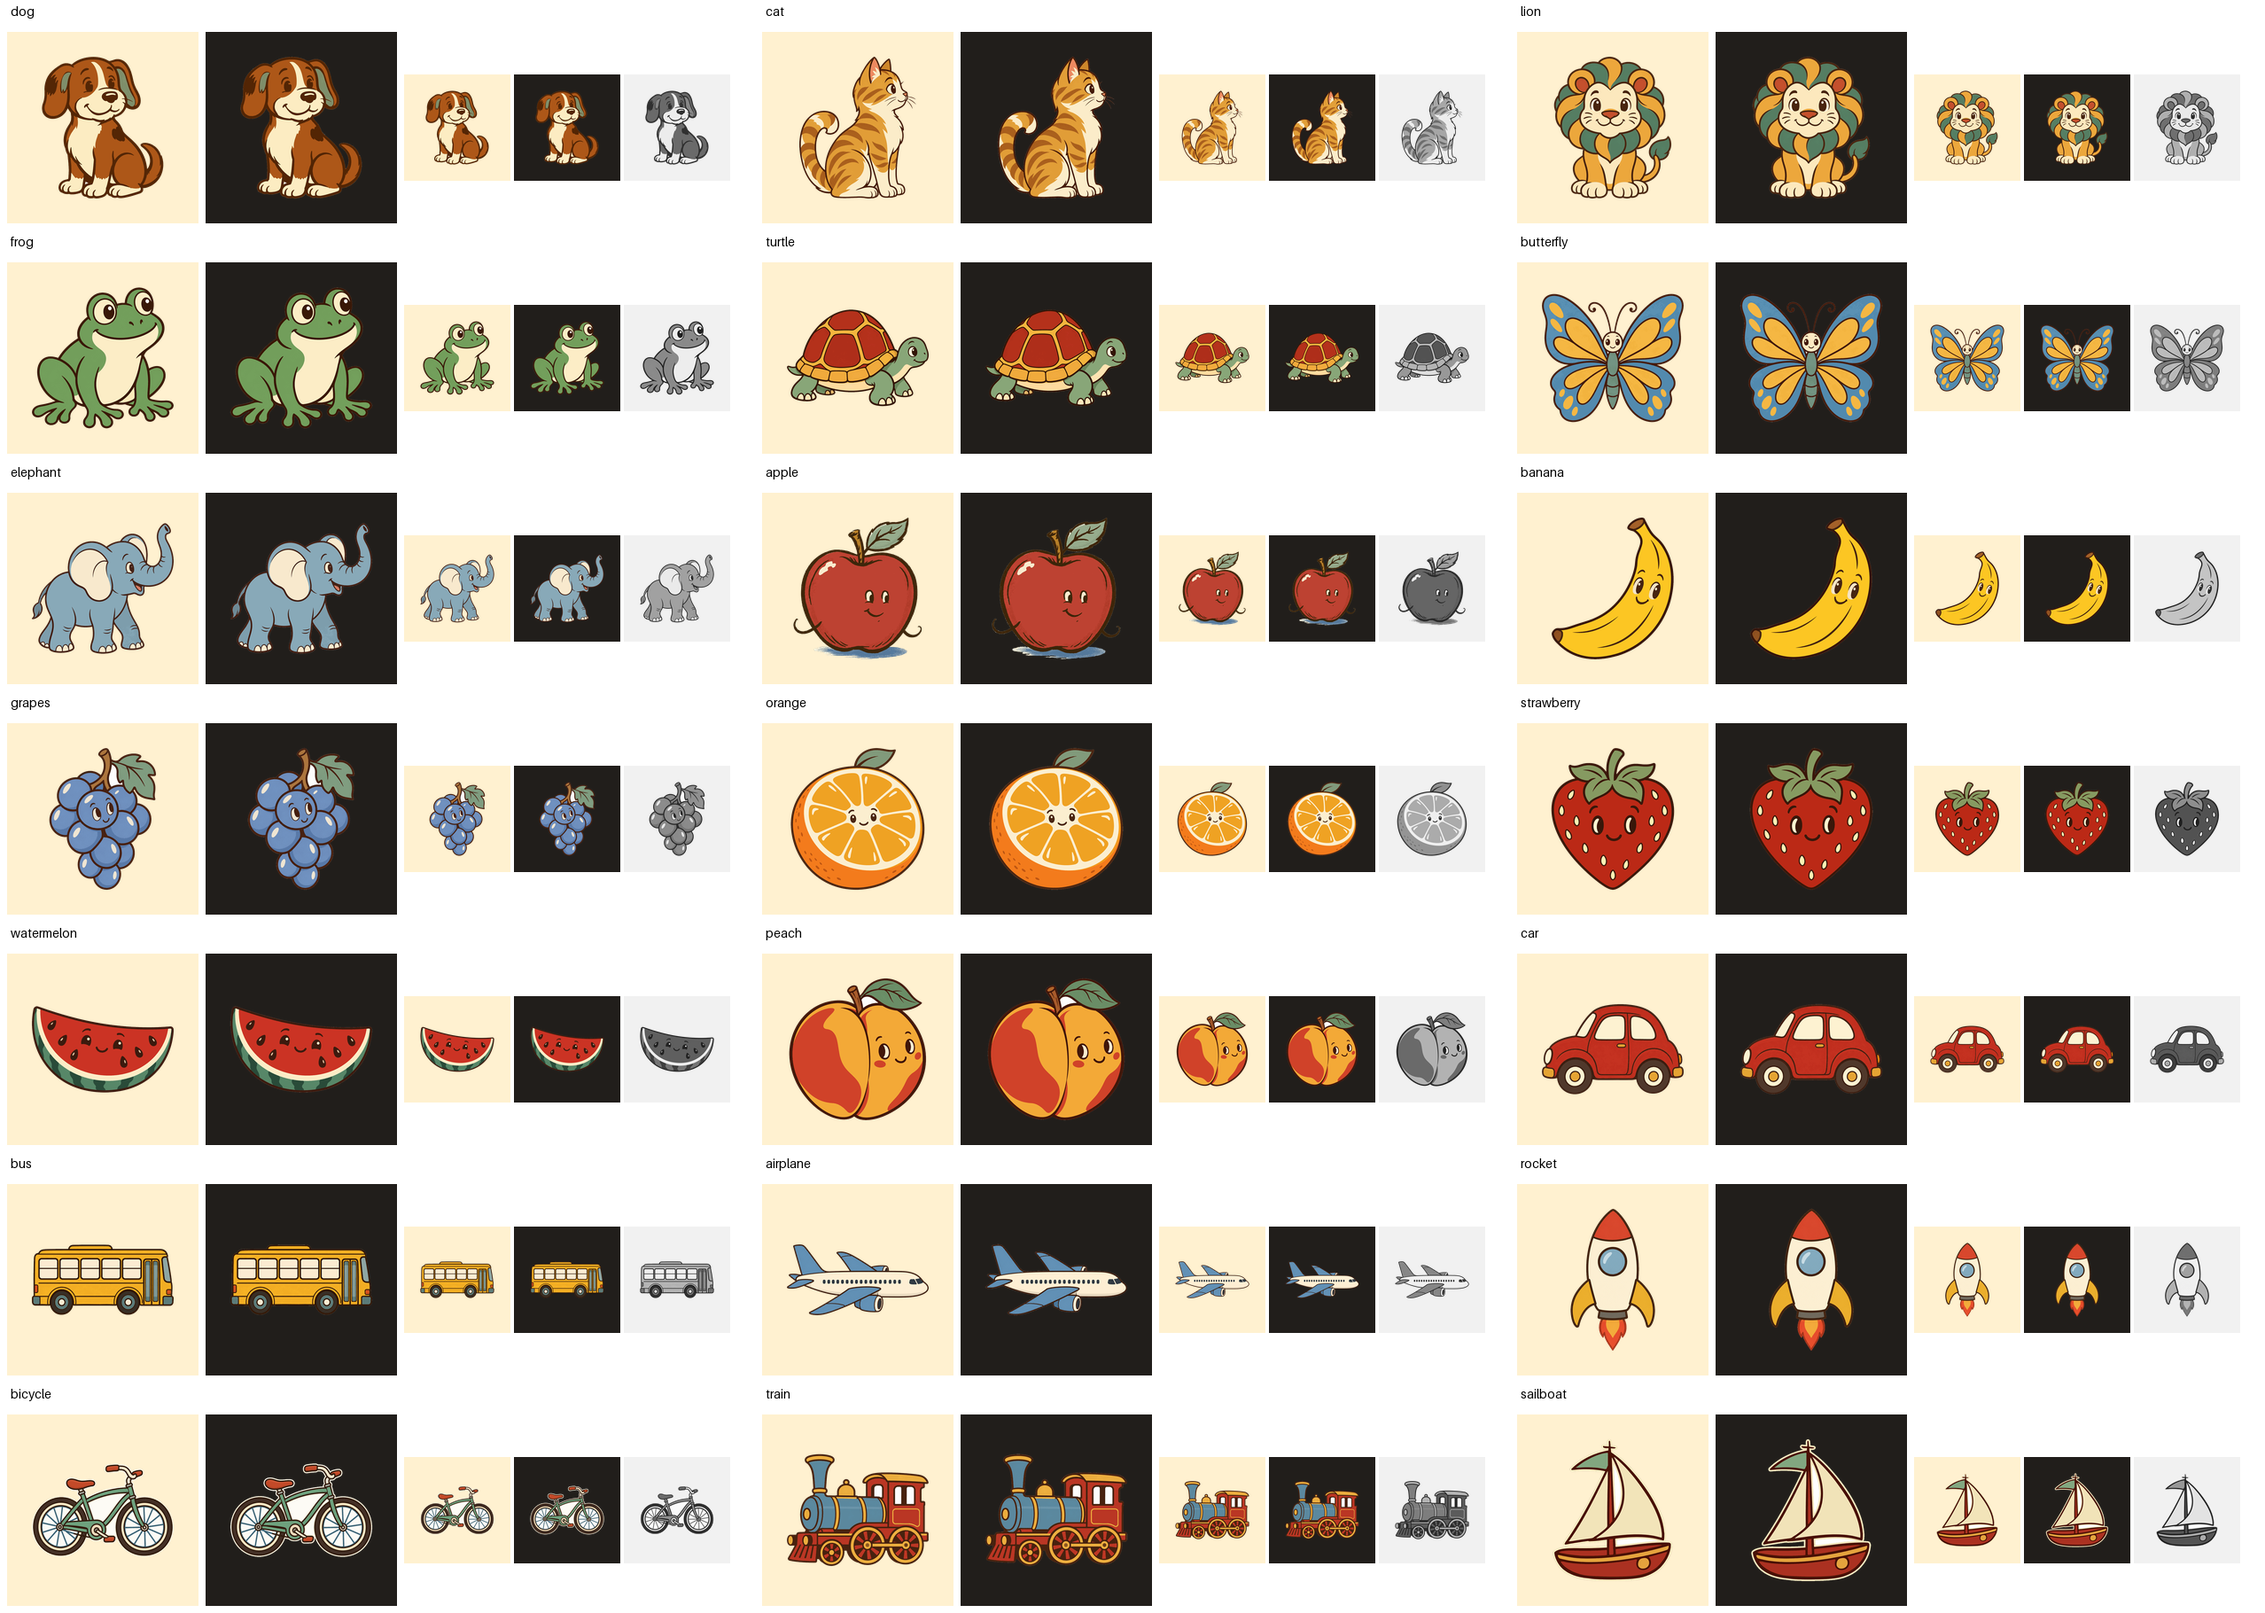
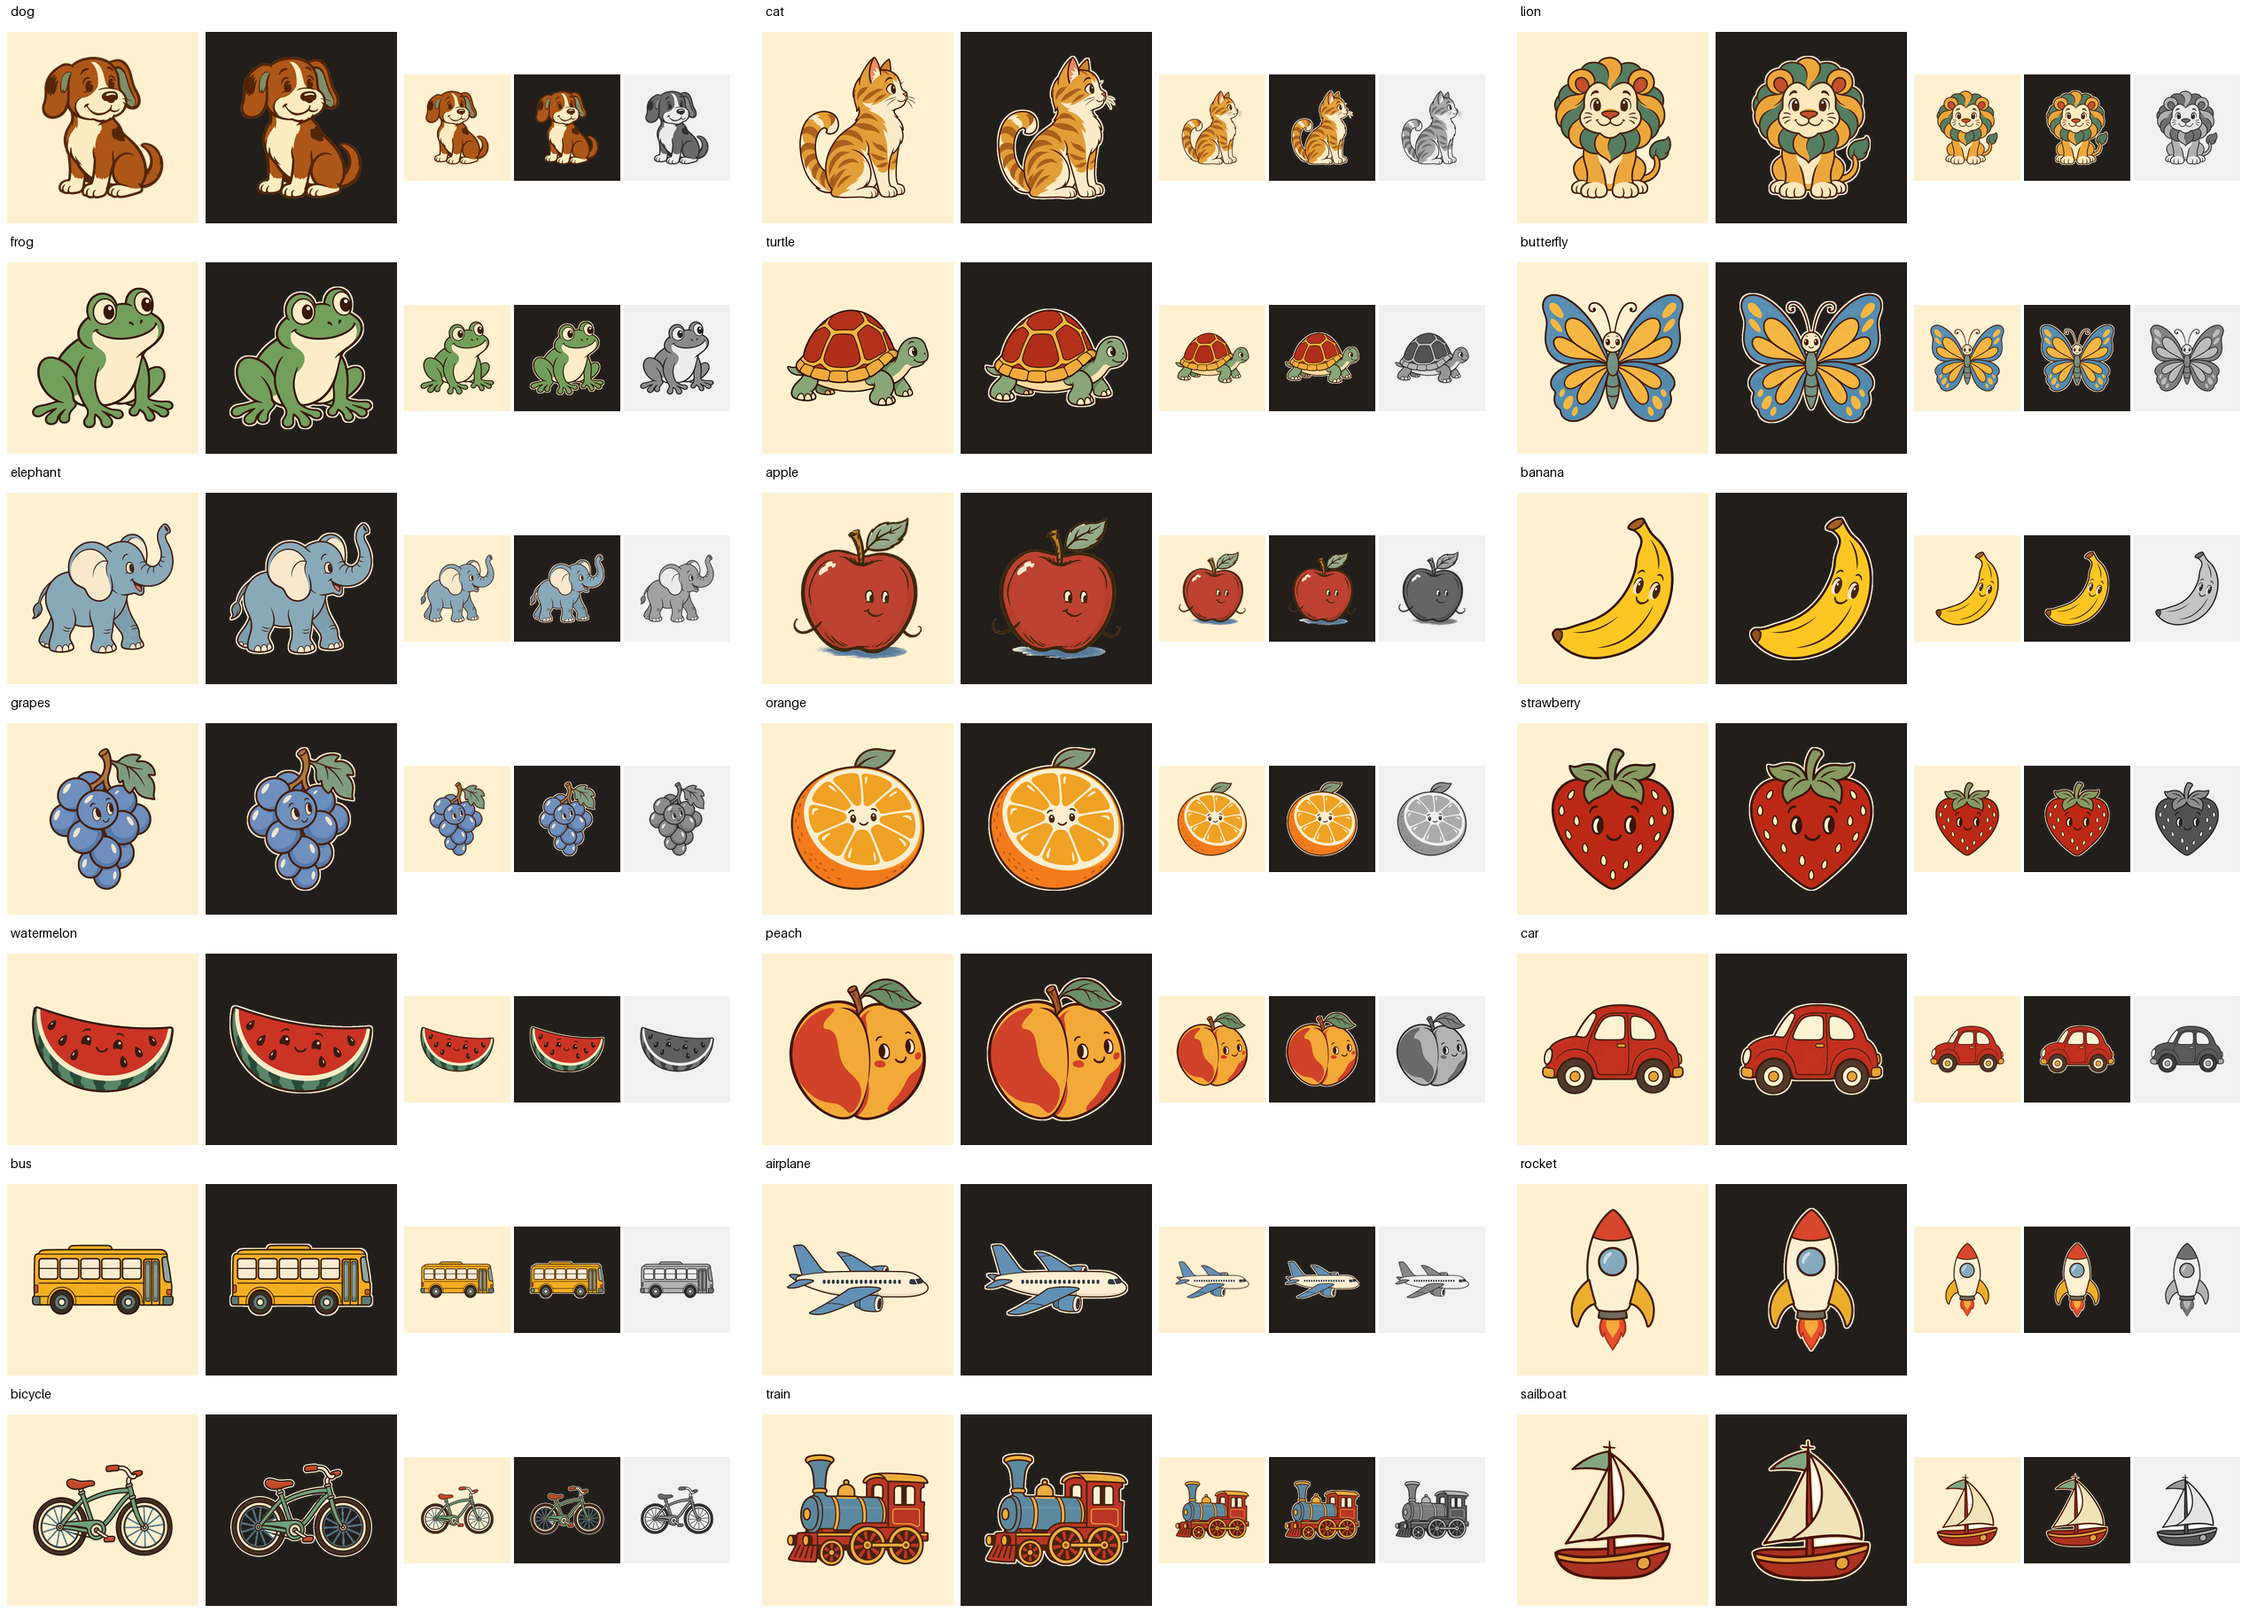
Pictures batch 1: remove enclosed white, add cream edge, record provenance (#325)

diff --git a/docs/ip-clearance.md b/docs/ip-clearance.md
@@ -126,6 +126,17 @@ files. They are design samples in `docs/`, not shipping app assets. Before any
 batch (#325–#328) ships generated pictures in the app, #226 must confirm the
 output-rights basis for the actual generation tool used.
 
+**#325 Name the Herd (2026-10-28):** 21 files in `Assets.xcassets/Pictures/`.
+18 (cat, lion, frog, turtle, butterfly, elephant, banana, grapes, orange,
+strawberry, watermelon, peach, car, bus, airplane, rocket, bicycle, train) were
+generated from text prompts only, no reference image, with OpenAI's built-in
+image-generation tool driven through `codex exec` (Codex CLI 0.165.0; model/version
+not exposed). Post-processing is local (Pillow): background and enclosed white
+removed, cropped, resized, cream outer edge added. **Pending #226:** dog, apple and
+sailboat are the Muse-generated #323 samples copied unchanged (rights basis
+not asserted, see above). Resemblance check: original designs, no named
+characters, brands or accessories.
+
 **Every batch:** append a complete prompt/tool/date row per new slug to
 `art-prompts.md`, record the selected files here, and check resemblance to
 existing characters, distinctive accessories, poses, compositions and branding.

diff --git a/docs/art-prompts.md b/docs/art-prompts.md
@@ -45,3 +45,5 @@ model/version that the tool does not expose. See [style](design/art-style.md) an
 | bicycle (#325) | [Prompt](design/art-samples/prompts/pic.bicycle.prompt.txt) | 2026-10-28 | OpenAI built-in image-generation tool driven through `codex exec` (Codex CLI 0.165.0); model/version not exposed. Background removed locally with Pillow |
 | train (#325) | [Prompt](design/art-samples/prompts/pic.train.prompt.txt) | 2026-10-28 | OpenAI built-in image-generation tool driven through `codex exec` (Codex CLI 0.165.0); model/version not exposed. Background removed locally with Pillow |
 | sailboat (#325, reuses #323 sample as production) | [Prompt](design/art-samples/prompts/pic.sailboat.prompt.txt) | 2026-10-28 | Reused from the merged #323 sample (Muse built-in image generation; model/version not exposed); no new generation |
+
+Notes for #325: the prompt files follow the #323 sample pattern (white background, "ONLY" single object) because the tool does not output transparency; the background and enclosed white were then removed locally and a thin cream outer edge was added to the 18 new pictures (the bicycle's is in its prompt). Orange and bicycle were regenerated once after the sheet review.
